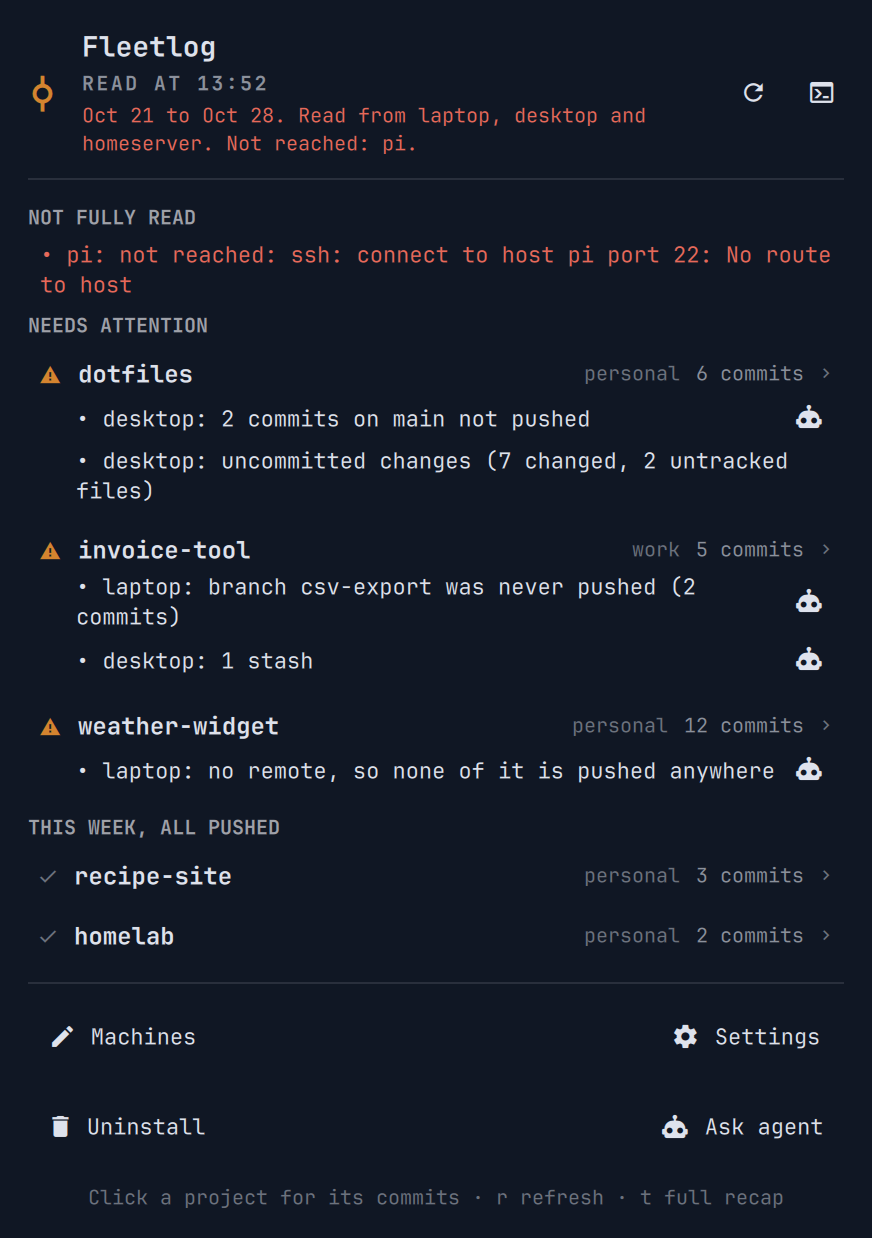
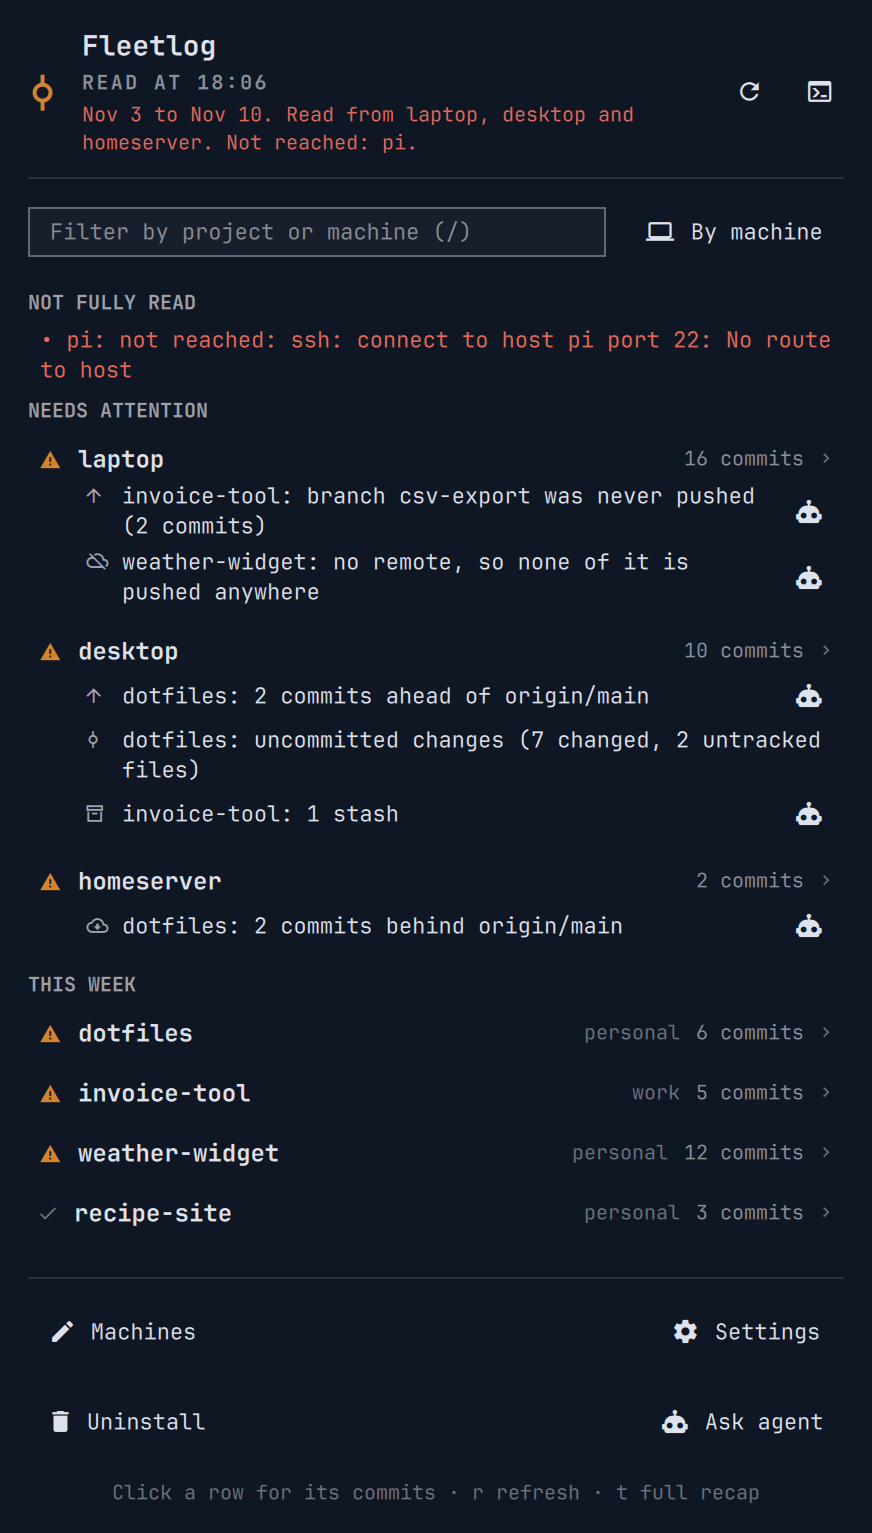
The preview shows the panel as it is now
Retaken with demo/run: by machine, with the line icons, the filter and
the switch. The fixture gains dotfiles on homeserver, last fetched on
Tuesday, so the preview has a clone that has not fetched what the others
have, as the README's example says, and a test keeps it there.

diff --git a/tests/test_demo.py b/tests/test_demo.py
@@ -42,3 +42,8 @@ class DemoTest(unittest.TestCase):
         self.assertEqual([p for p in projects if projects[p]["left_off"]],
                          ["dotfiles", "invoice-tool", "weather-widget"])
         self.assertEqual(projects["invoice-tool"]["account"], "work")
+        # homeserver last fetched on Tuesday: the README's example, and the
+        # panel's cloud icon.
+        self.assertIn({"kind": "not-fetched", "text": "homeserver: 2 commits behind origin/main"},
+                      [{"kind": line["kind"], "text": line["text"]}
+                       for line in projects["dotfiles"]["left_off"]])

diff --git a/README.md b/README.md
@@ -6,7 +6,7 @@
 
 <p align="center"><a href="https://github.com/tcballard/omarchy-badges"><img alt="Built for Omarchy: Plugin" height="20" src="https://raw.githubusercontent.com/tcballard/omarchy-badges/75975e5b5bf75e7ede3764bcd2950046f7abfe2c/badges/v1/omarchy-plugin.svg"></a></p>
 
-<p align="center"><img alt="The fleetlog panel for a fictional fleet: dotfiles, invoice-tool and weather-widget need attention, each with what is left off on which machine and an agent button; recipe-site and homelab are all pushed; one machine was not reached. The footer has Machines, Settings, Uninstall and Ask agent" src="preview.png" width="400"></p>
+<p align="center"><img alt="The fleetlog panel for a fictional fleet, grouped by machine: laptop has a branch never pushed and a repo with no remote, desktop has commits not pushed, uncommitted changes and a stash, and homeserver's dotfiles are 2 commits behind what the others fetched. Each line has an icon for its kind and an agent button. Below are this week's projects, above a filter field and a By machine switch, and one machine was not reached. The footer has Machines, Settings, Uninstall and Ask agent" src="preview.png" width="400"></p>
 
 After a few days away from a project it is hard to remember where it
 stopped: which machine has the newest commits, what was never pushed, and
